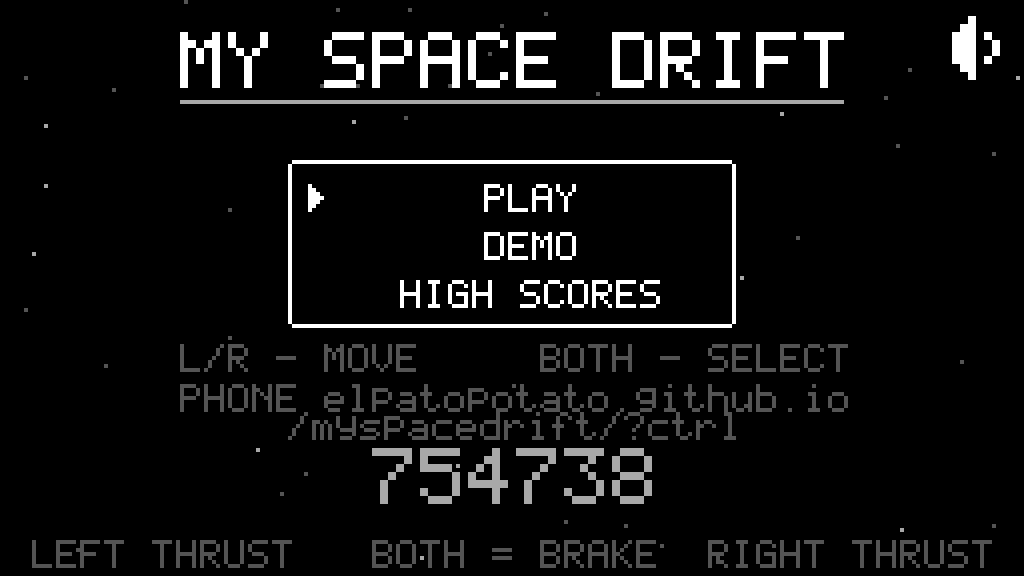
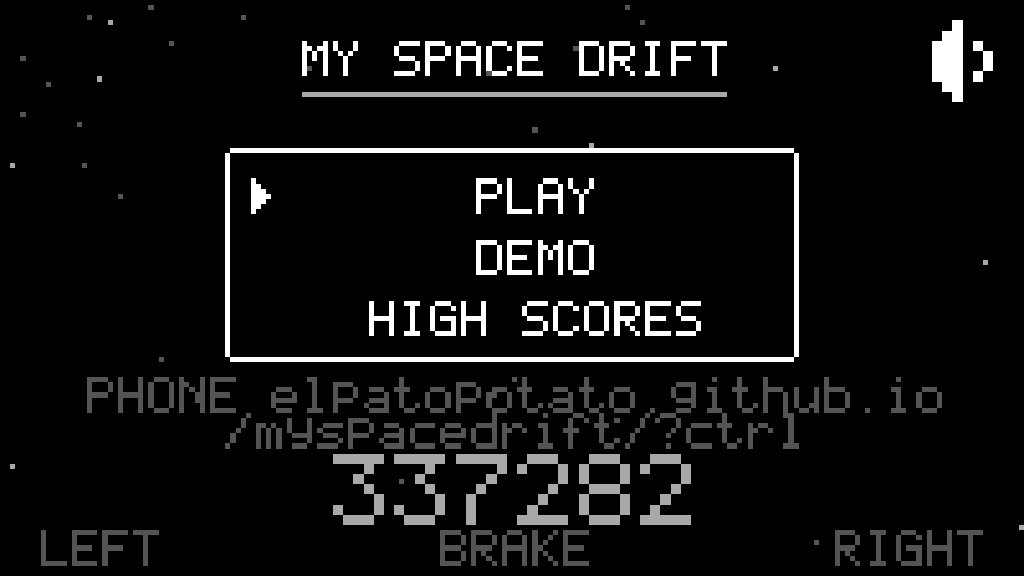
El reparto del menu cuenta los renglones que la direccion ocupa de verdad
Al traer main aparecio el choque. #16 hizo que el LCD deje de tener 144 filas
siempre: con el tope de columnas una pantalla ancha cae al piso de filas, y ahi
drawMenu reparte el alto contra la franja de controles. Ese reparto suponia que
la direccion entraba en UN renglon, que era cierto hasta que se la partio en dos
para que no se cortara. Resultado: el codigo se comia la franja en 1024x576,
1366x768, 1920x1080 y 1280x576.

Los renglones salen ahora de linkRows(), que es la misma cuenta que usa el
dibujo, asi que el reparto y lo dibujado no pueden discrepar. El alto del bloque
lo da linkCodeH(): con un renglon vale lo de siempre.

Y se ordena por utilidad lo que se cede cuando el alto aprieta. Antes el titulo
se quedaba en escala 2 y el que encogia era el codigo, que es al reves de lo que
conviene: el titulo es adorno y el codigo es lo unico con lo que se empareja el
celular. Ahora cae primero la ayuda de navegacion, despues el tamano del titulo
y solo al final el del codigo. En las seis formas que mide el test el codigo se
queda en escala 2.

Como el titulo puede salir en escala 1 sin que titleScale() lo sepa, tintBox()
pasa a medir la escala del reparto dibujado; si no, el area del easter egg
quedaba mas ancha que el titulo que la disimula.

El test mira Menu.layout en vez de rehacer la formula, que era copiarla y
esperar a que se desincronizara, y agrega 2560x1080.

Claude-Session: https://claude.ai/code/session_013eJso9K3YuNEfCHn8JEUVz

diff --git a/index.html b/index.html
@@ -2431,6 +2431,32 @@ function drawControlHints(y, tone, live) {
 // Codigo de emparejamiento del celular. SOLO en las pantallas quietas: durante
 // la partida no se dibuja nada (§20.2). Cada pantalla elige donde ponerlo, que
 // el sitio libre no es el mismo en todas.
+// En cuantos renglones cae la direccion con el ancho de AHORA. Vive aparte
+// porque drawMenu tiene que repartir el alto antes de dibujar nada: si el
+// reparto supusiera un renglon y la direccion saliera en dos, el codigo se
+// comeria la franja de controles (§21.2).
+//
+// La direccion no entra de una sola linea en cualquier pantalla: con el rotulo
+// delante mide 281 puntos y el LCD no pasa de lcdCols, asi que se cortaba por
+// los dos lados justo el renglon que hay que tipear en el celular — el peor
+// sitio posible para que falte texto. Cuando no entra se parte por el primer
+// '/', que es donde la vista ya corta sola: el dominio arriba y el resto abajo.
+function linkRows(x, align) {
+  const st = Link.status();
+  if (st.error || st.linked || !st.code) return [];
+  // el protocolo y el index.html sobran para tipear a mano en el celular
+  const url = Link.url().replace(/^https?:\/\//, '').replace(/index\.html\?/, '?');
+  const room = align === 'center' ? LW - T : align === 'right' ? x - T / 2 : LW - x - T / 2;
+  const cut = url.indexOf('/');
+  return (Font.width('PHONE ' + url, 1) <= room || cut <= 0)
+    ? ['PHONE ' + url]
+    : ['PHONE ' + url.slice(0, cut), url.slice(cut)];
+}
+
+// Alto del bloque entero: los renglones de la direccion mas el codigo debajo.
+// Con un solo renglon da T + GH*s, que es lo que valia antes de que se partiera.
+const linkCodeH = (rows, s) => (rows - 1) * Font.GH + T + Font.GH * s;
+
 function drawLinkCode(x, y, s, align) {
   const st = Link.status();
   align = align || 'left';
@@ -2440,25 +2466,11 @@ function drawLinkCode(x, y, s, align) {
     return;
   }
   if (!st.code) return;
-  // el protocolo y el index.html sobran para tipear a mano en el celular
-  const url = Link.url().replace(/^https?:\/\//, '').replace(/index\.html\?/, '?');
 
-  // La direccion no entra de una sola linea en cualquier pantalla. Con el
-  // rotulo delante mide 281 puntos y un 16:9 da 256 de ancho (144 * 16/9), asi
-  // que en CUALQUIER tele se cortaba por los dos lados justo el renglon que hay
-  // que tipear en el celular — el peor sitio posible para que falte texto.
-  // Cuando no entra se parte por el primer '/', que es donde la vista ya corta
-  // sola: el dominio arriba y el resto abajo. En una pantalla bien ancha sigue
-  // saliendo de un renglon, como antes.
-  const room = align === 'center' ? LW - T : align === 'right' ? x - T / 2 : LW - x - T / 2;
-  const cut = url.indexOf('/');
-  const rows = (Font.width('PHONE ' + url, 1) <= room || cut <= 0)
-    ? ['PHONE ' + url]
-    : ['PHONE ' + url.slice(0, cut), url.slice(cut)];
-
+  const rows = linkRows(x, align);
   for (let i = 0; i < rows.length; i++) text(rows[i], x, y + i * Font.GH, 1, align, 1);
   // el codigo baja lo que ocupe la direccion: con un renglon queda donde estaba
-  text(st.code, x, y + rows.length * T, s || 1, align, 2);
+  text(st.code, x, y + (rows.length - 1) * Font.GH + T, s || 1, align, 2);
 }
 
 /* ------------------------------- pantallas ------------------------------ */
@@ -2473,8 +2485,12 @@ const titleScale = () => (Font.width(TITLE, 2) <= LW - 5 * T ? 2 : 1);
 // mientras el secreto siga sin destapar, tampoco responde al toque suelto, solo
 // cuenta. El area se corta antes del boton de sonido, que en pantallas angostas
 // le queda encima.
-function tintBox() {
-  const w = Font.width(TITLE, titleScale());
+// El area del tinte se disimula debajo del titulo, asi que mide lo que el
+// titulo mide DE VERDAD: con el alto apretado drawMenu puede bajarlo a escala 1,
+// y preguntarle a titleScale() dejaria la zona de toque mas ancha que lo que se
+// ve. Sin argumento (el hit-test) usa la escala del ultimo reparto dibujado.
+function tintBox(s) {
+  const w = Font.width(TITLE, s || (Menu.layout && Menu.layout.ts) || titleScale());
   const x = Math.round(LW / 2 - w / 2);
   const right = Math.min(x + w, muteIcon().x - 6);   // el boton de sonido manda, se mueva donde se mueva
   return worldBox(x, 0, Math.max(8, right - x), 3 * T, 'TINT');
@@ -2482,30 +2498,46 @@ function tintBox() {
 
 function drawMenu() {
   const cx = LW / 2;
-  const ts = titleScale(), tw = Font.width(TITLE, ts);
+
+  // Reparto vertical, ANTES de dibujar: el tamano del titulo sale de aca, no al
+  // reves. En 144 filas todo cae donde caia siempre: el cuadro en 5*T, la ayuda
+  // hasta 93 y el codigo en 12*T. Con el tope de columnas la pantalla puede
+  // quedar en 104 filas (§21.2) y ahi no entra todo.
+  //
+  // El orden en que se cede es por utilidad, no por gusto:
+  //   1. la ayuda de navegacion, que repite lo que ya dice la franja de abajo;
+  //   2. el tamano del titulo, que es adorno;
+  //   3. el tamano del codigo, y solo si no queda otra.
+  // La direccion nunca se corta y el codigo nunca se saca: sin esos dos no hay
+  // con que emparejar el celular, que es lo unico que esta pantalla tiene que
+  // resolver.
+  const hintsY = LH() - 2 - Font.GH - safeY();
+  const boxH = 6 + 3 * 12;
+  // La direccion puede caer en dos renglones, y entonces el bloque crece: hay
+  // que repartir con los renglones de verdad, no con uno supuesto.
+  const rows = Math.max(1, linkRows(cx, 'center').length);
+  let ts, codeS, codeH, codeY, help, boxTop, titleEnd;
+  for (const [t, s] of [[titleScale(), 2], [1, 2], [1, 1]]) {
+    ts = t; codeS = s;
+    titleEnd = T + Font.GH * ts + 5;
+    codeH = linkCodeH(rows, s);
+    codeY = Math.min(12 * T, hintsY - 1 - codeH);
+    help = codeY - 3 - (4 + Font.GH) - boxH >= titleEnd;
+    boxTop = Math.min(5 * T, codeY - 3 - (help ? 4 + Font.GH : 0) - boxH);
+    if (boxTop >= titleEnd) break;
+  }
+
+  const tw = Font.width(TITLE, ts);
   text(TITLE, cx, T, ts, 'center', 3);
-  G.buttons.push(tintBox());
+  G.buttons.push(tintBox(ts));
   ctx.fillStyle = TONE[2];
   ctx.fillRect(Math.round(cx - tw / 2), T + Font.GH * ts + 3, tw, 1);
   if (Tint.osd > 0) text('TINT ' + Tint.name, cx, 3 * T + 6, 1, 'center', 2);
 
-  // Reparto vertical. En 144 filas todo cae donde caia siempre: el cuadro en 5*T,
-  // la ayuda hasta 93 y el codigo en 12*T. Con el tope de columnas la pantalla
-  // puede quedar en 104 filas (§21.2) y entonces no entra todo, asi que el codigo
-  // se ancla arriba de la franja de controles y el cuadro sube detras de el; la
-  // ayuda de navegacion es lo primero que se cae, porque repite lo que ya dice la
-  // franja. El codigo no se toca: sin el no hay con que emparejar el celular.
-  const hintsY = LH() - 2 - Font.GH - safeY();
-  const codeH = T + Font.GH * 2;                 // 'PHONE url' y el codigo debajo
-  const boxH = 6 + 3 * 12;
-  const codeY = Math.min(12 * T, hintsY - 1 - codeH);
-  const titleEnd = T + Font.GH * ts + 5;
-  const help = codeY - 3 - (4 + Font.GH) - boxH >= titleEnd;
-  const boxTop = Math.min(5 * T, codeY - 3 - (help ? 4 + Font.GH : 0) - boxH);
-  Menu.layout = { boxTop, boxH, codeY, codeH, hintsY, help };   // lo publica el dibujo, como las filas
+  Menu.layout = { boxTop, boxH, codeY, codeH, hintsY, help, rows, codeS, ts, titleEnd };   // lo publica el dibujo, como las filas
   menuBox(['PLAY', 'DEMO', 'HIGH SCORES'], cx, boxTop, 112, codeY - 3);
   if (G.attract) text('DEMO', T / 2, T / 2, 1, 'left', 2);
-  else drawLinkCode(cx, codeY, 2, 'center');     // el codigo se lee desde el sillon
+  else drawLinkCode(cx, codeY, codeS, 'center'); // el codigo se lee desde el sillon
   drawControlHints(hintsY, 1);
   drawMuteButton();
 }

diff --git a/README.md b/README.md
@@ -30,10 +30,17 @@ El código de la pantalla no cambia al recargar: queda guardado, así que el
 móvil se reconecta solo cuando la tele vuelve.
 
 La dirección se parte en dos renglones cuando no entra de uno. Con el rótulo
-delante mide 281 puntos y un 16:9 da 256 de ancho (144 × 16/9), así que en
-cualquier tele se cortaba justo el renglón que hay que teclear en el móvil. El
-corte va en la primera `/`: el dominio arriba y el resto abajo, que es donde la
-vista ya corta sola. En una pantalla bien ancha sigue saliendo de un renglón.
+delante mide 281 puntos y el LCD no pasa de `CFG.lcdCols`, así que se cortaba
+por los dos lados justo el renglón que hay que teclear en el móvil. El corte va
+en la primera `/`: el dominio arriba y el resto abajo, que es donde la vista ya
+corta sola.
+
+Partirla hace crecer el bloque, y en las pantallas que caen al piso de filas el
+alto no sobra, así que `drawMenu` reparte cediendo por utilidad: primero se cae
+la ayuda de navegación (repite lo que dice la franja de abajo), después el
+tamaño del título (es adorno) y solo al final el del código. La dirección no se
+corta nunca y el código no se saca nunca: sin esos dos no hay con qué emparejar
+el móvil, que es lo único que esa pantalla tiene que resolver.
 
 Ya en el mando, se toca:
 

diff --git a/marketing/reddit/PLAYBOOK.md b/marketing/reddit/PLAYBOOK.md
@@ -121,10 +121,10 @@ Ask for the browser and whether the screen was in landscape. The game locks to l
 rotate prompt, which people sometimes read as a freeze.
 
 **"I can't read the pairing URL."**
-This used to be real — the line was 281 LCD dots wide and a 16:9 screen is only 256 across, so it
-was clipped at both ends on every normal TV and laptop. It's fixed: the address now wraps onto two
-lines when it doesn't fit, and `dev/layout-test.mjs` checks it at five screen shapes. If someone
-still reports it, ask for their screen size, because that would be a new case.
+This used to be real — the line was 281 LCD dots wide and the screen caps out narrower than that, so
+it was clipped at both ends on every normal TV and laptop. It's fixed: the address wraps onto two
+lines when it doesn't fit, and `dev/layout-test.mjs` checks it at six screen shapes up to 2560×1080.
+If someone still reports it, ask for their screen size, because that would be a new case.
 
 **Do not** reply to a suggestion with a promise to implement it. "That's a small change, I'll try
 it" is honest. "I'll add that" isn't, until it's added.
